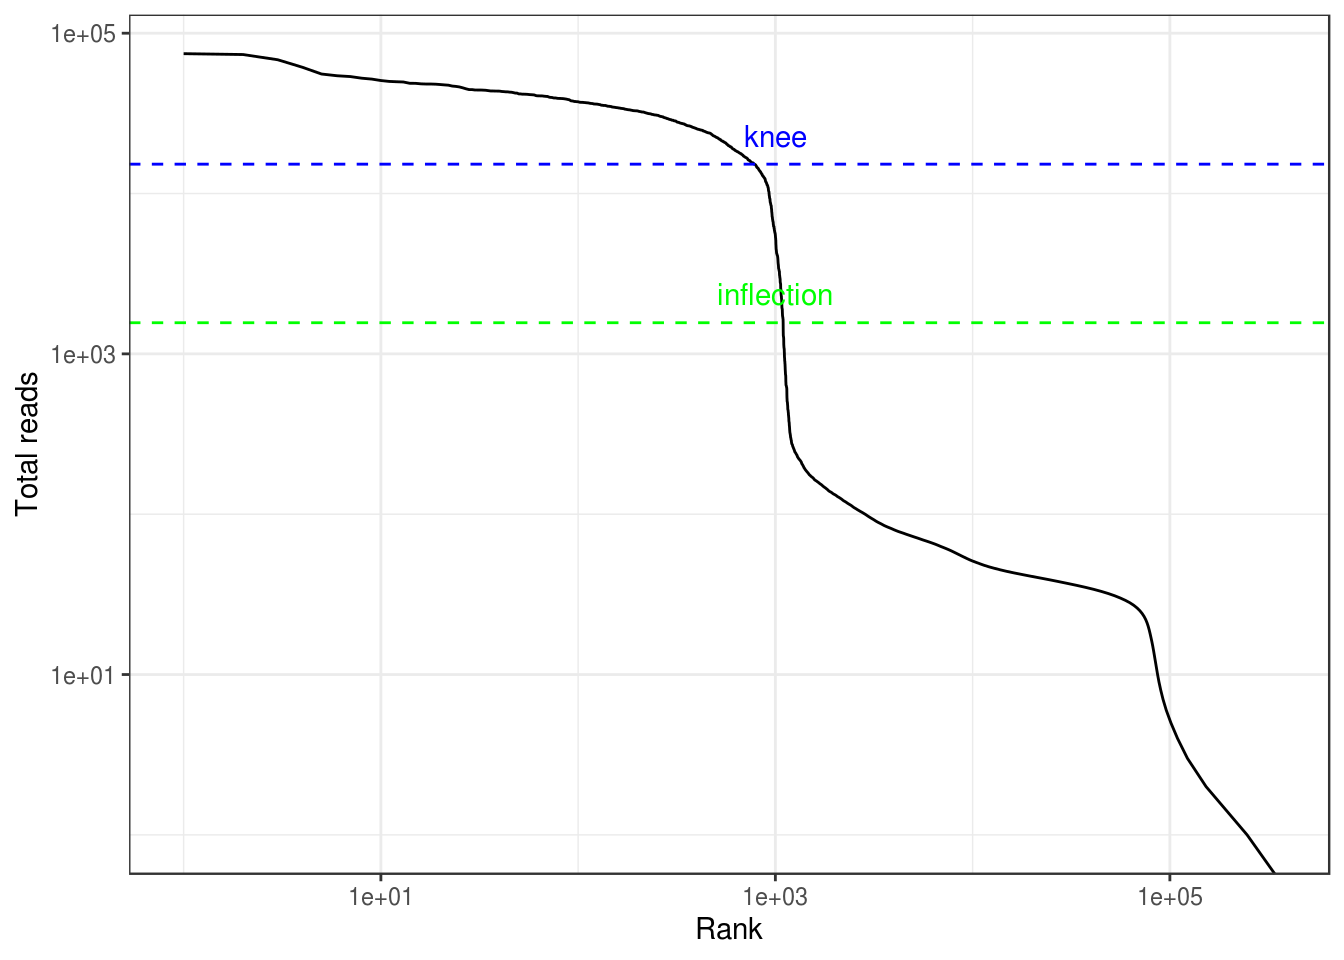
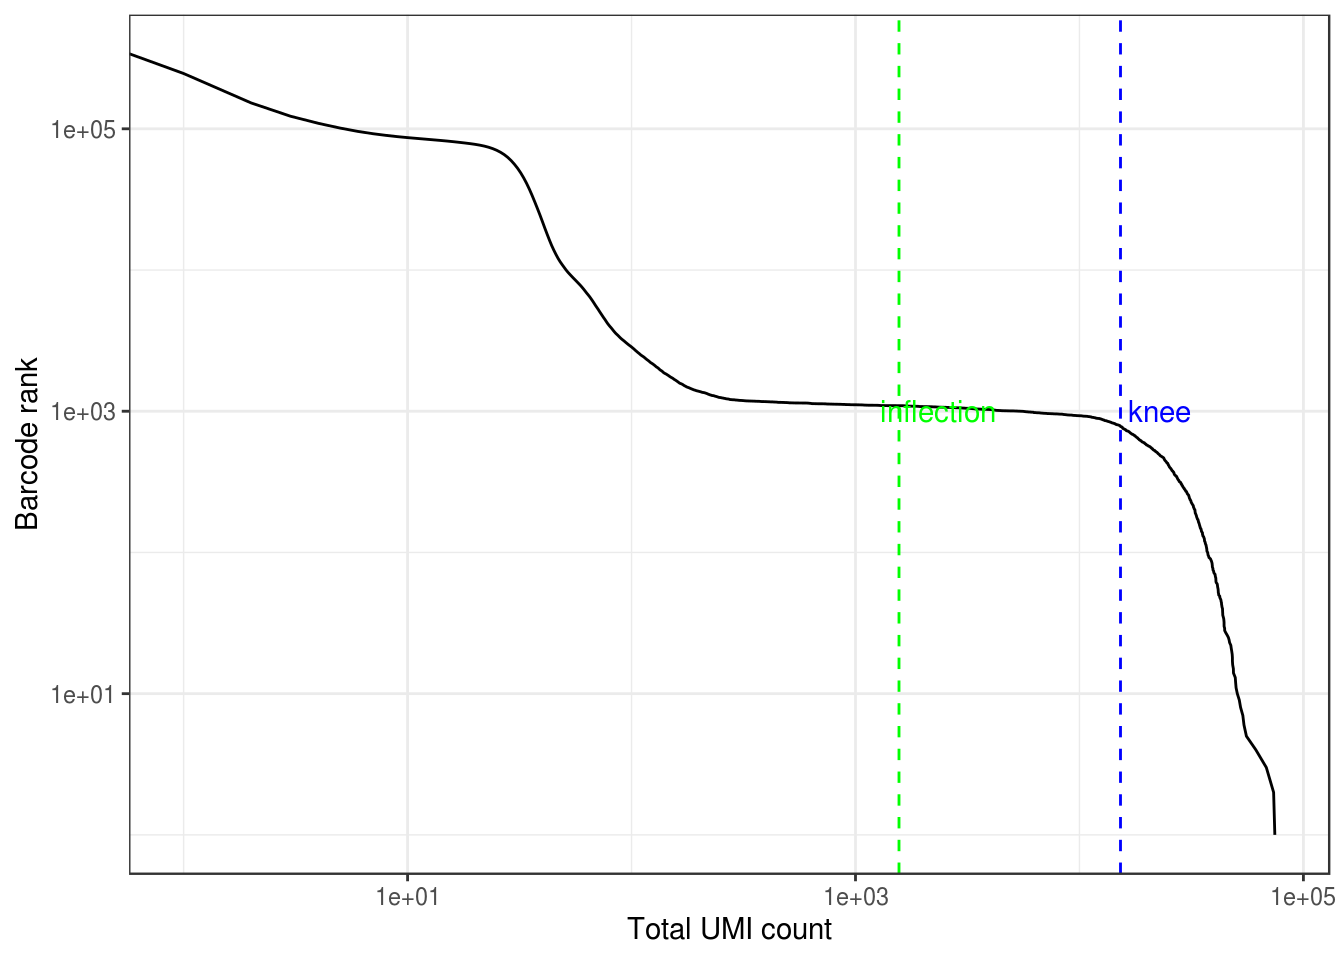
Build site.

diff --git a/docs/10xv2.html b/docs/10xv2.html
@@ -382,7 +382,7 @@ div.tocify {
         <span class="icon-bar"></span>
         <span class="icon-bar"></span>
       </button>
-      <a class="navbar-brand" href="index.html">BUS Notebooks R</a>
+      <a class="navbar-brand" href="index.html">kallisto | bustools R Notebooks</a>
     </div>
     <div id="navbar" class="navbar-collapse collapse">
       <ul class="nav navbar-nav">
@@ -537,10 +537,10 @@ This reproducible <a href="http://rmarkdown.rstudio.com">R Markdown</a> analysis
 <div class="panel panel-default">
 <div class="panel-heading">
 <p class="panel-title">
-<a data-toggle="collapse" data-parent="#workflowr-checks" href="#strongRepositoryversionstrongahrefhttpsgithubcomBUStoolsBUSnotebooksRtreece7a44d83d9647933b11430d25682a19b60d3815targetblankce7a44da"> <span class="glyphicon glyphicon-ok text-success" aria-hidden="true"></span> <strong>Repository version:</strong> <a href="https://github.com/BUStools/BUS_notebooks_R/tree/ce7a44d83d9647933b11430d25682a19b60d3815" target="_blank">ce7a44d</a> </a>
+<a data-toggle="collapse" data-parent="#workflowr-checks" href="#strongRepositoryversionstrongahrefhttpsgithubcomBUStoolsBUSnotebooksRtreecf90f3283aa133484e3670e922810b25ab511177targetblankcf90f32a"> <span class="glyphicon glyphicon-ok text-success" aria-hidden="true"></span> <strong>Repository version:</strong> <a href="https://github.com/BUStools/BUS_notebooks_R/tree/cf90f3283aa133484e3670e922810b25ab511177" target="_blank">cf90f32</a> </a>
 </p>
 </div>
[2 lines of base64/hex data omitted]
 <div class="panel-body">
 <p>
 Great! You are using Git for version control. Tracking code development and connecting the code version to the results is critical for reproducibility. The version displayed above was the version of the Git repository at the time these results were generated. <br><br> Note that you need to be careful to ensure that all relevant files for the analysis have been committed to Git prior to generating the results (you can use <code>wflow_publish</code> or <code>wflow_git_commit</code>). workflowr only checks the R Markdown file, but you know if there are other scripts or data files that it depends on. Below is the status of the Git repository when the results were generated:
@@ -563,10 +563,6 @@ Ignored files:
 
 Untracked files:
     Untracked:  output/tr2g_hgmm.tsv
-
-Unstaged changes:
-    Modified:   README.md
-    Modified:   analysis/10xv3.Rmd
 
 </code></pre>
 <p>
@@ -605,6 +601,40 @@ Message
 </tr>
 </thead>
 <tbody>
+<tr>
+<td>
+Rmd
+</td>
+<td>
+<a href="https://github.com/BUStools/BUS_notebooks_R/blob/cf90f3283aa133484e3670e922810b25ab511177/analysis/10xv2.Rmd" target="_blank">cf90f32</a>
+</td>
+<td>
+Lambda Moses
+</td>
+<td>
+2019-06-22
+</td>
+<td>
+Changed site name and slightly changed 10xv2 notebook
+</td>
+</tr>
+<tr>
+<td>
+html
+</td>
+<td>
+<a href="https://rawcdn.githack.com/BUStools/BUS_notebooks_R/68bd8fb21fc3dc4b807a1b62ba6bafa40be8a8f3/docs/10xv2.html" target="_blank">68bd8fb</a>
+</td>
+<td>
+Lambda Moses
+</td>
+<td>
+2019-06-22
+</td>
+<td>
+Build site.
+</td>
+</tr>
 <tr>
 <td>
 Rmd
@@ -1247,8 +1277,8 @@ Initial commit, already with 10xv2 notebook
 <p>If you would like to rerun this notebook, you can git clone <a href="https://github.com/BUStools/BUS_notebooks_R">this repository</a> or directly download <a href="https://github.com/BUStools/BUS_notebooks_R/blob/master/analysis/10xv2.Rmd">this notebook from GitHub</a>.</p>
 <div id="install-packages" class="section level2">
 <h2>Install packages</h2>
-<p>The primary analysis section of this notebook demonstrates the use of command line tools <code>kallisto</code> and <code>bustools</code>. Please use <code>kallisto</code> &gt;= 0.45, whose binary can be downloaded <a href="https://pachterlab.github.io/kallisto/download">here</a>. The binary of <code>bustools</code> can be found <a href="https://github.com/BUStools/bustools/releases">here</a>.</p>
-<p>After you download the binary, you should decompress the file (if it is <code>tar.gz</code>) with <code>tar -xzvf file.tar.gz</code> in the <code>bash</code> terminal, and add the directory containing the binary to <code>PATH</code> by <code>export PATH=$PATH:/foo/bar</code>, where <code>/foo/bar</code> here is the directory of interest. Then you can directly invoke the binary on the command line as we will do in this notebook.</p>
+<p>This notebook demonstrates the use of command line tools <code>kallisto</code> and <code>bustools</code>. Please use <code>kallisto</code> &gt;= 0.46, whose binary can be downloaded <a href="https://pachterlab.github.io/kallisto/download">here</a>. The binary of <code>bustools</code> can be found <a href="https://github.com/BUStools/bustools/releases">here</a>.</p>
+<p>After you download the binary, you should decompress the file (if it is <code>tar.gz</code>) with <code>tar -xzvf file.tar.gz</code> in the <code>bash</code> terminal, and add the directory containing the binary to <code>PATH</code> by <code>export PATH=$PATH:/foo/bar</code>, where <code>/foo/bar</code> is the directory of interest. Then you can directly invoke the binary on the command line as we will do in this notebook.</p>
 <p>We will be using the R packages below. <code>BUSpaRse</code> is not yet on CRAN or Bioconductor. For Mac users, see the <a href="https://github.com/BUStools/BUSpaRse">installation note for <code>BUSpaRse</code></a>. <code>BUSpaRse</code> will be used to generate the transcript to gene file for <code>bustools</code> and to read output of <code>bustools</code> into R. We will also use <code>Seurat</code> version 3 which is now on CRAN.</p>
 <pre class="r"><code># Install devtools if it&#39;s not already installed
 if (!require(devtools)) {
@@ -1454,15 +1484,15 @@ summary(tot_counts)</code></pre>
 <p>The vast majority of “cells” have only a few UMI detected. Those are empty droplets. 10x claims to have cell capture rate of up to 65%, but in practice, depending on how many cells are in fact loaded, the rate can be much lower. A commonly used method to estimate the number of empty droplets is barcode ranking knee and inflection points, as those are often assumed to represent transition between two components of a distribution. While more sophisticated method exist (e.g. see <a href="https://www.bioconductor.org/packages/devel/bioc/vignettes/DropletUtils/inst/doc/DropletUtils.html#detecting-empty-droplets"><code>emptyDrops</code> in <code>DropletUtils</code></a>), for simplicity, we will use the barcode ranking method here. However, whichever way we go, we don’t have the ground truth.</p>
 <pre class="r"><code># Compute barcode rank
 bc_rank &lt;- barcodeRanks(res_mat)</code></pre>
-<pre class="r"><code>qplot(bc_rank$rank, bc_rank$total, geom = &quot;line&quot;) +
-  geom_hline(yintercept = metadata(bc_rank)$knee, color = &quot;blue&quot;, linetype = 2) +
-  geom_hline(yintercept = metadata(bc_rank)$inflection, color = &quot;green&quot;, linetype = 2) +
-  annotate(&quot;text&quot;, x = 1000, y = 1.5 * c(metadata(bc_rank)$knee, metadata(bc_rank)$inflection),
+<pre class="r"><code>qplot(bc_rank$total, bc_rank$rank, geom = &quot;line&quot;) +
+  geom_vline(xintercept = metadata(bc_rank)$knee, color = &quot;blue&quot;, linetype = 2) +
+  geom_vline(xintercept = metadata(bc_rank)$inflection, color = &quot;green&quot;, linetype = 2) +
+  annotate(&quot;text&quot;, y = 1000, x = 1.5 * c(metadata(bc_rank)$knee, metadata(bc_rank)$inflection),
            label = c(&quot;knee&quot;, &quot;inflection&quot;), color = c(&quot;blue&quot;, &quot;green&quot;)) +
   scale_x_log10() +
   scale_y_log10() +
-  labs(x = &quot;Rank&quot;, y = &quot;Total reads&quot;)</code></pre>
-<pre><code>#&gt; Warning: Transformation introduced infinite values in continuous y-axis</code></pre>
+  labs(y = &quot;Barcode rank&quot;, x = &quot;Total UMI count&quot;)</code></pre>
+<pre><code>#&gt; Warning: Transformation introduced infinite values in continuous x-axis</code></pre>
 <p><img src="figure/10xv2.Rmd/rank-1.png" width="672" style="display: block; margin: auto;" /></p>
 <p>
 <button type="button" class="btn btn-default btn-xs btn-workflowr btn-workflowr-fig" data-toggle="collapse" data-target="#fig-rank-1">

diff --git a/docs/site_libs/tocify-1.9.1/jquery.tocify.css b/docs/site_libs/tocify-1.9.1/jquery.tocify.css
@@ -11,6 +11,8 @@
     margin-left: 2%;
     position: fixed;
     border: 1px solid #ccc;
+    webkit-border-radius: 6px;
+    moz-border-radius: 6px;
     border-radius: 6px;
 }
 
@@ -43,14 +45,10 @@
 .tocify-subheader .tocify-subheader {
     text-indent: 30px;
 }
+
+/* Further indents third level subheader elements. You can continue this pattern if you have more nested elements. */
 .tocify-subheader .tocify-subheader .tocify-subheader {
     text-indent: 40px;
-}
-.tocify-subheader .tocify-subheader .tocify-subheader .tocify-subheader {
-    text-indent: 50px;
-}
-.tocify-subheader .tocify-subheader .tocify-subheader .tocify-subheader .tocify-subheader {
-    text-indent: 60px;
 }
 
 /* Twitter Bootstrap Override Style */

diff --git a/docs/site_libs/tocify-1.9.1/jquery.tocify.js b/docs/site_libs/tocify-1.9.1/jquery.tocify.js
@@ -386,13 +386,13 @@
 
           item.append($("<a/>", {
 
-            "html": self.html()
+            "text": self.text()
 
           }));
 
         } else {
 
-          item.html(self.html());
+          item.text(self.text());
 
         }
 
